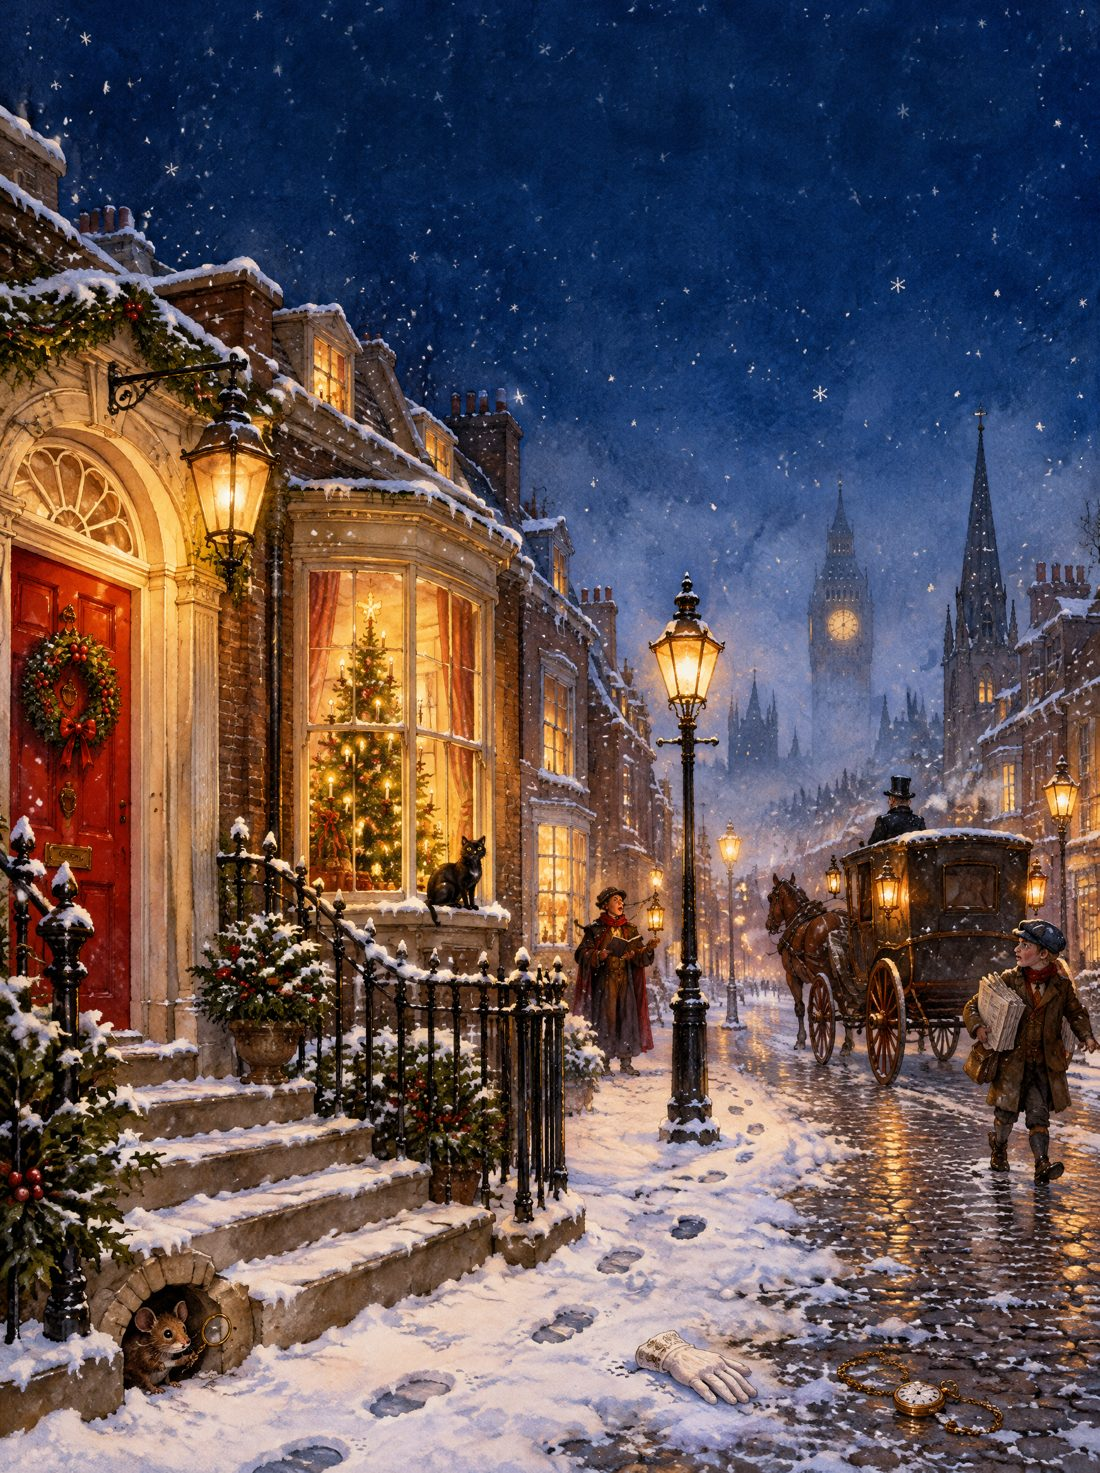
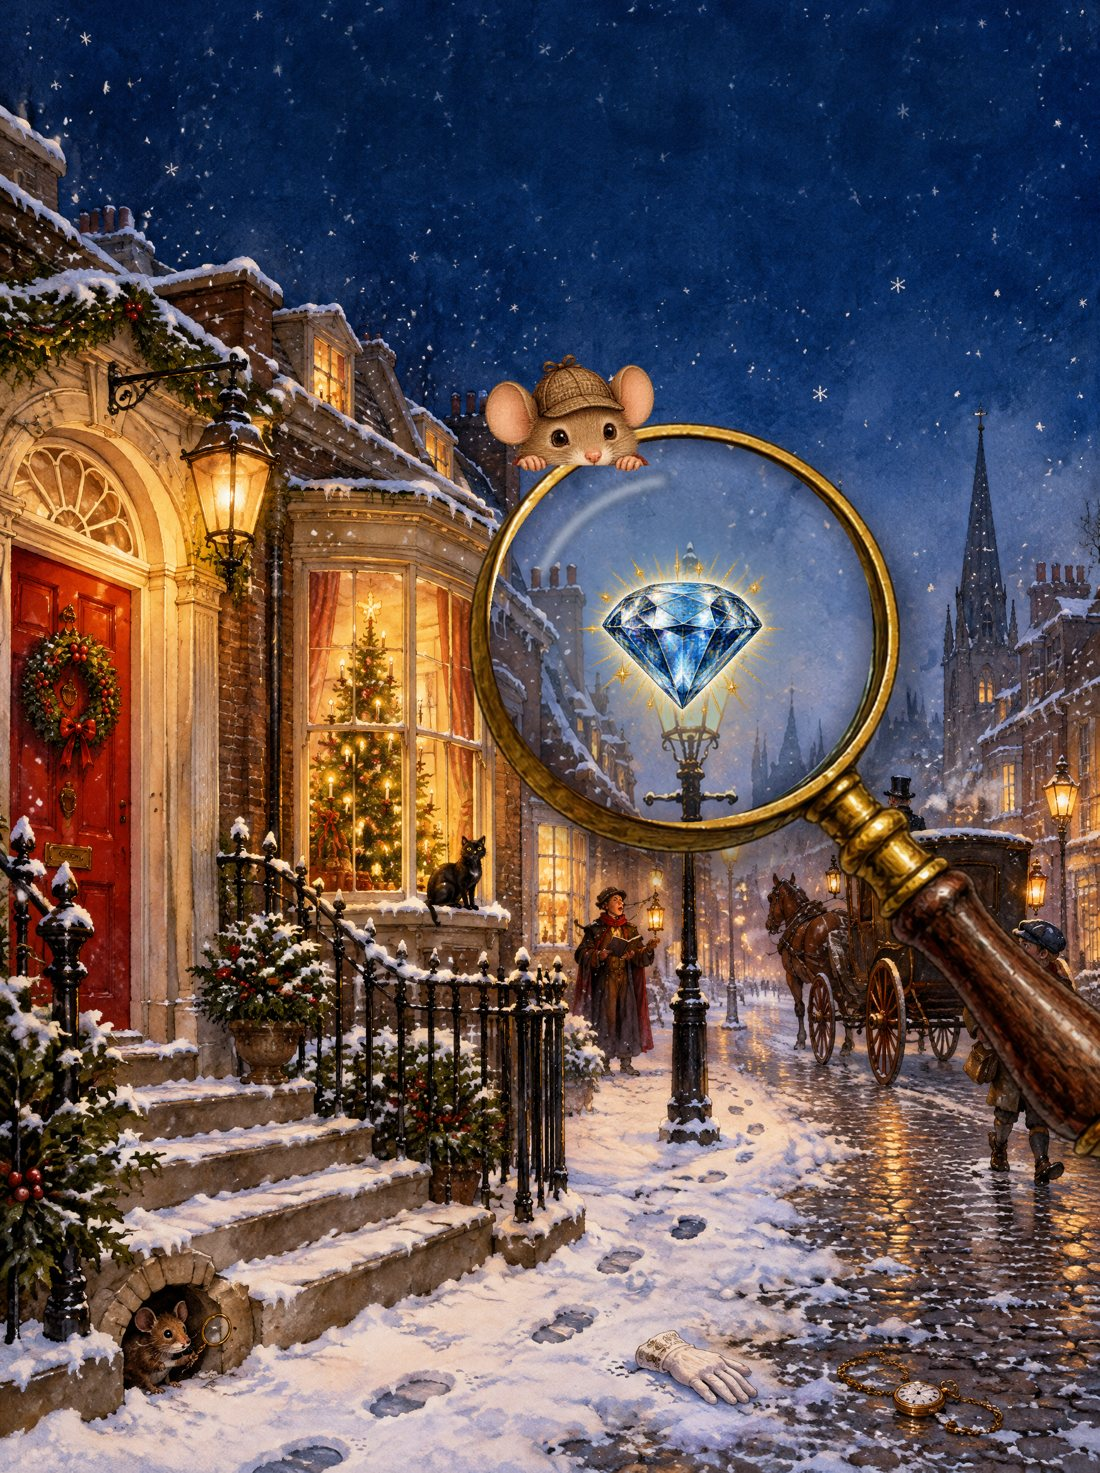
Startbild mit Lupe, Diamant und Krümel
Claude-Session: https://claude.ai/code/session_013ksHH11Wr7X8jeXugVvtga

Changed region(s): [[0.4018, 0.2186, 1.0, 0.8119]]

diff --git a/style.css b/style.css
@@ -481,3 +481,11 @@ input[type=range]{width:100%;accent-color:var(--red)}
 #s-start h1{font-size:clamp(38px,12vw,56px)}
 #s-start h1 em{font-size:.72em;white-space:nowrap;letter-spacing:-.01em}
 #s-start .kick{font-size:clamp(9.5px,2.7vw,12px)}
+/* Lupe mit Diamant im Startbild zwischen Titel und Codefeld */
+#s-start .start-gem{display:none}
+.start-bg{background:#0d0a08 url(a/start.jpg) 79% 96%/auto 112% no-repeat!important}
+.start-bg::after{background:linear-gradient(180deg,rgba(10,7,5,.92) 0%,rgba(10,7,5,.55) 16%,rgba(10,7,5,.04) 28%,rgba(10,7,5,0) 50%,rgba(10,7,5,.78) 76%,rgba(10,7,5,.95) 100%)!important}
+.start-bg{background-size:auto 92%!important;background-position:92% 25%!important}
+@media (max-height:720px){.start-bg{background-size:auto 81%!important;background-position:80% 22%!important}}
+@media (max-height:720px){.start-bg{background-size:auto 104%!important;background-position:86% 100%!important}}
+@media (min-height:721px){.start-bg{background-size:auto 100%!important;background-position:76% 0!important}}

diff --git a/index.html b/index.html
@@ -8,7 +8,7 @@
 <meta name="robots" content="noindex">
 <link rel="preconnect" href="https://fonts.googleapis.com"><link rel="preconnect" href="https://fonts.gstatic.com" crossorigin>
 <link href="https://fonts.googleapis.com/css2?family=Playfair+Display:ital,wght@0,600;0,800;1,600&family=Special+Elite&family=Lora:wght@400;600&display=swap" rel="stylesheet">
-<link rel="stylesheet" href="style.css?v=7">
+<link rel="stylesheet" href="style.css?v=8">
 </head>
 <body>
 <canvas id="snow"></canvas>
@@ -220,10 +220,10 @@
     <p class="cm-note">Das PDF ist im A4 Querformat und lässt sich direkt ausdrucken.</p>
   </div>
 </div>
-<script src="gate.js?v=7"></script>
-<script src="icons.js?v=7"></script>
-<script src="data.js?v=7"></script>
-<script src="stimmen.js?v=7"></script>
-<script src="app.js?v=7"></script>
+<script src="gate.js?v=8"></script>
+<script src="icons.js?v=8"></script>
+<script src="data.js?v=8"></script>
+<script src="stimmen.js?v=8"></script>
+<script src="app.js?v=8"></script>
 </body>
 </html>
